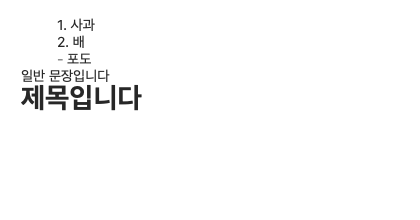
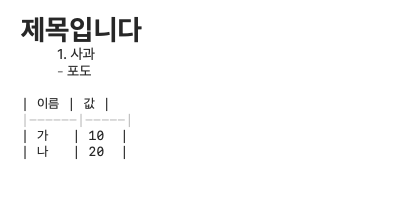
표 정렬 렌더 + 파일트리 .md만 노출
- 표(|...|) 줄을 고정폭 글꼴로 정렬, 구분선 흐리게
- 폴더 트리에서 폴더·.md만 표시(png 등 숨김)

diff --git a/Sources/MDEditor/MarkdownTextView.swift b/Sources/MDEditor/MarkdownTextView.swift
@@ -204,6 +204,15 @@ struct MarkdownTextView: NSViewRepresentable {
                 storage.addAttribute(.backgroundColor, value: NSColor.systemGray.withAlphaComponent(0.18), range: content)
             }
 
+            // 표: `|`로 이뤄진 줄은 고정폭 글꼴로 → 칸이 세로로 정렬돼 표처럼 읽힘
+            highlight(storage, in: full, pattern: #"^\s*\|.*\|\s*$"#, options: [.anchorsMatchLines]) { range in
+                storage.addAttribute(.font, value: NSFont.monospacedSystemFont(ofSize: baseSize - 1, weight: .regular), range: range)
+            }
+            // 표 구분선(|---|:--:|)은 문법 표시라 흐리게
+            highlight(storage, in: full, pattern: #"^\s*\|[\s:|-]+\|\s*$"#, options: [.anchorsMatchLines]) { range in
+                storage.addAttribute(.foregroundColor, value: NSColor.tertiaryLabelColor, range: range)
+            }
+
             storage.endEditing()
         }
 

diff --git a/Sources/MDEditor/App.swift b/Sources/MDEditor/App.swift
@@ -20,7 +20,7 @@ final class AppDelegate: NSObject, NSApplicationDelegate {
     static func renderSnapshot(to path: String) {
         let tv = NSTextView(frame: NSRect(x: 0, y: 0, width: 420, height: 220))
         tv.textContainerInset = NSSize(width: 16, height: 16)
-        tv.string = "1. 사과\n2. 배\n- 포도\n일반 문장입니다\n# 제목입니다"
+        tv.string = "# 제목입니다\n1. 사과\n- 포도\n\n| 이름 | 값 |\n|------|-----|\n| 가   | 10  |\n| 나   | 20  |"
         // 앱과 똑같은 Coordinator로 하이라이팅
         let view = MarkdownTextView(text: .constant(tv.string), controller: EditorController())
         view.makeCoordinator().applyHighlighting(tv.textStorage!)

diff --git a/Sources/MDEditor/FileNode.swift b/Sources/MDEditor/FileNode.swift
@@ -28,6 +28,8 @@ final class FileNode: Identifiable, Hashable {
                 let isDir = (try? child.resourceValues(forKeys: [.isDirectoryKey]))?.isDirectory ?? false
                 return FileNode(url: child, isDirectory: isDir)
             }
+            // 폴더와 .md 파일만 노출 (png 등 나머지 파일은 숨김)
+            .filter { $0.isDirectory || $0.url.pathExtension.lowercased() == "md" }
     }
 
     static func == (lhs: FileNode, rhs: FileNode) -> Bool { lhs.url == rhs.url }
